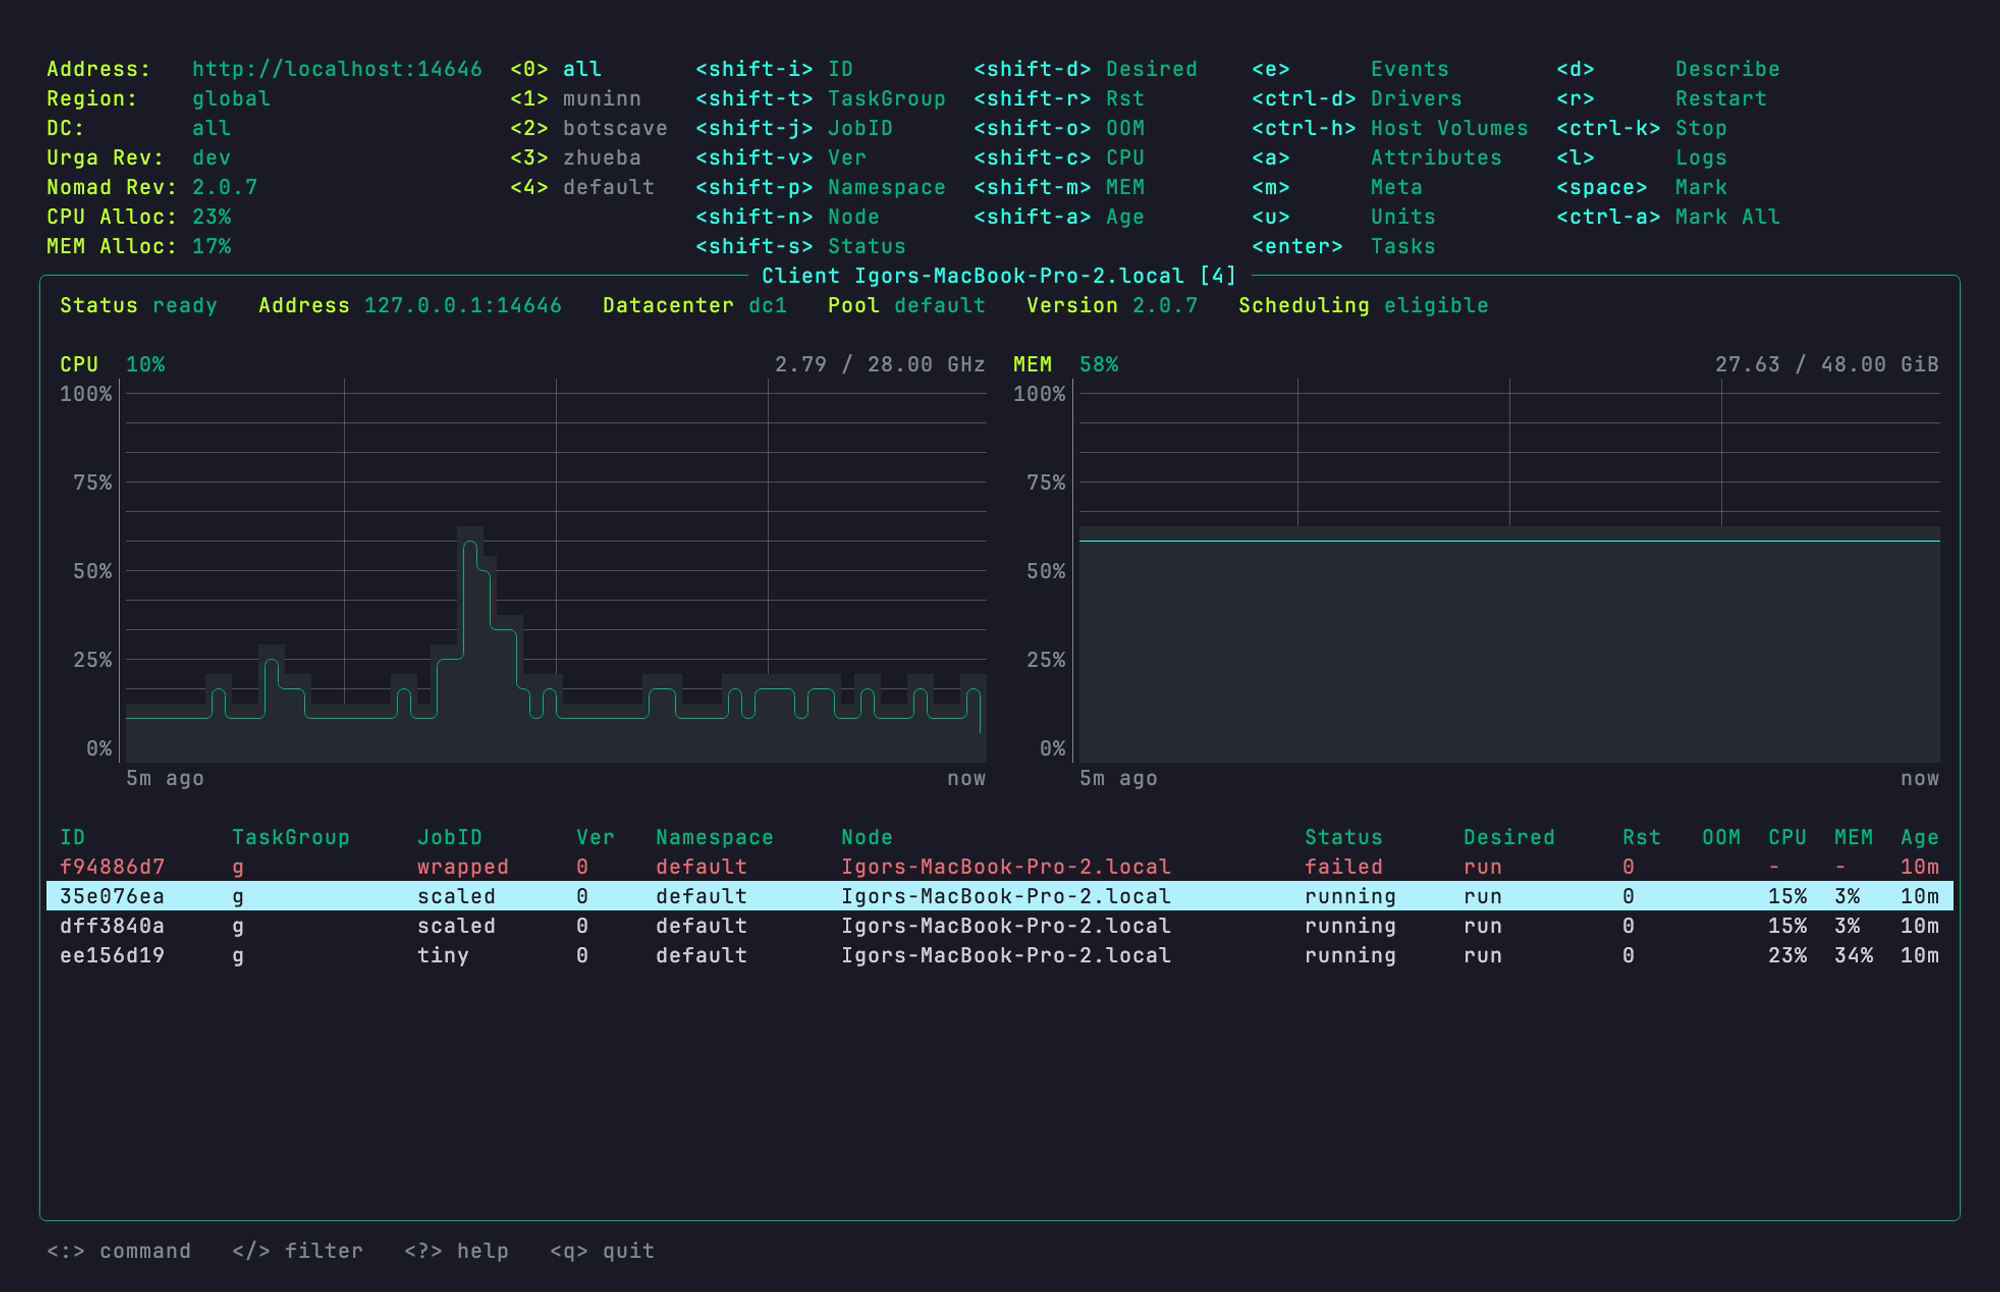
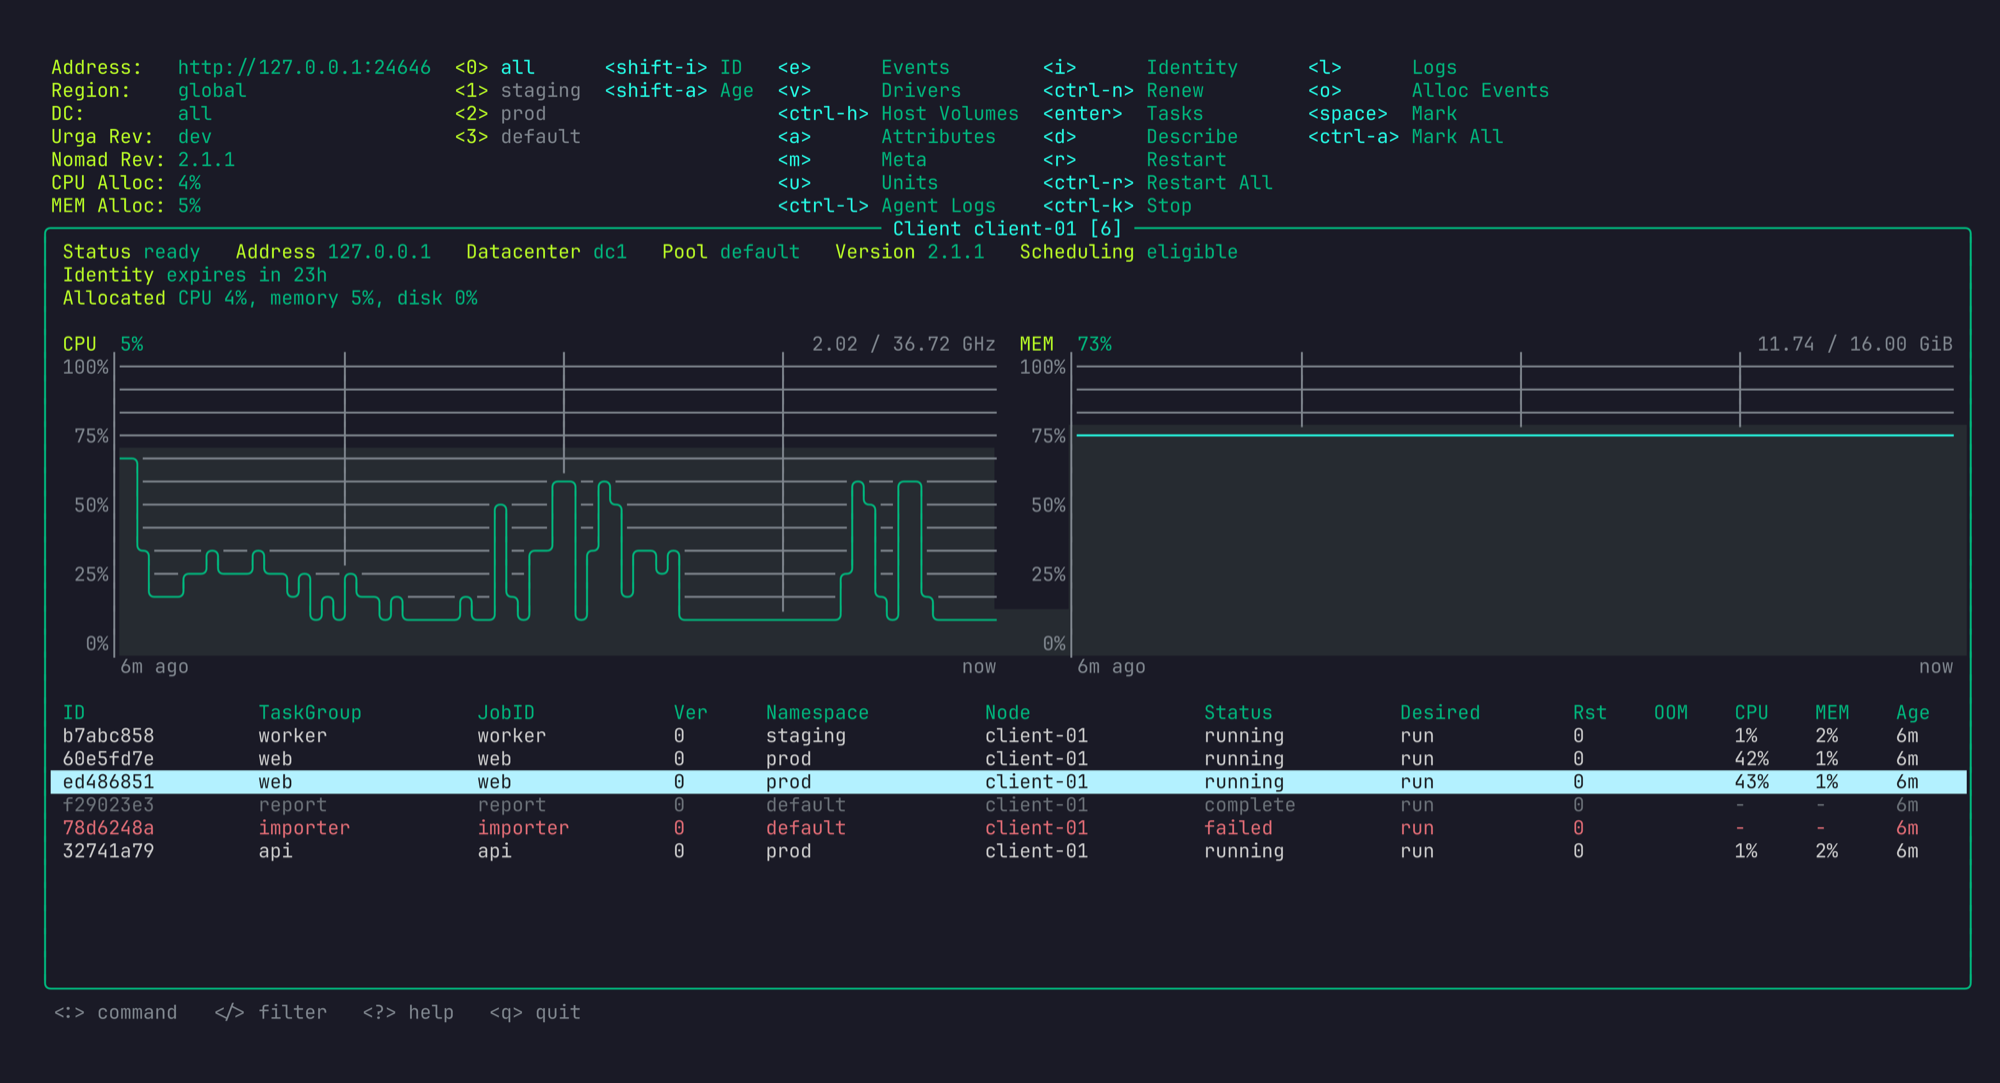
docs: retake the screens of urga from a cluster of their own
make screens starts a Nomad agent in dev mode on ports of its own, runs a few jobs in two namespaces, one of them failing, and takes the job list and a client from urga in a terminal of a fixed size. The client picture no longer shows ctrl-d for its drivers.

diff --git a/CONTRIBUTING.md b/CONTRIBUTING.md
@@ -22,11 +22,14 @@ make run
 ```sh
 make check   # fmt, vet, lint, licenses, test, build
 make dist    # the whole release, published nowhere
+make screens # the pictures in the README, from a cluster of their own
 ```
 
 `make lint` needs golangci-lint, the latest release, which CI lints with; it
 fails when golangci-lint is not installed.
 `make dist` needs goreleaser, the version named in `.tool-versions`.
+`make screens` needs nomad, tmux, curl and freeze, and takes about seven
+minutes: the charts of the client fill for six.
 `make licenses` fails when a module urga links has a license outside the
 list in `internal/licenses`; `make notices` also writes `THIRD_PARTY_NOTICES`,
 which the release ships.
